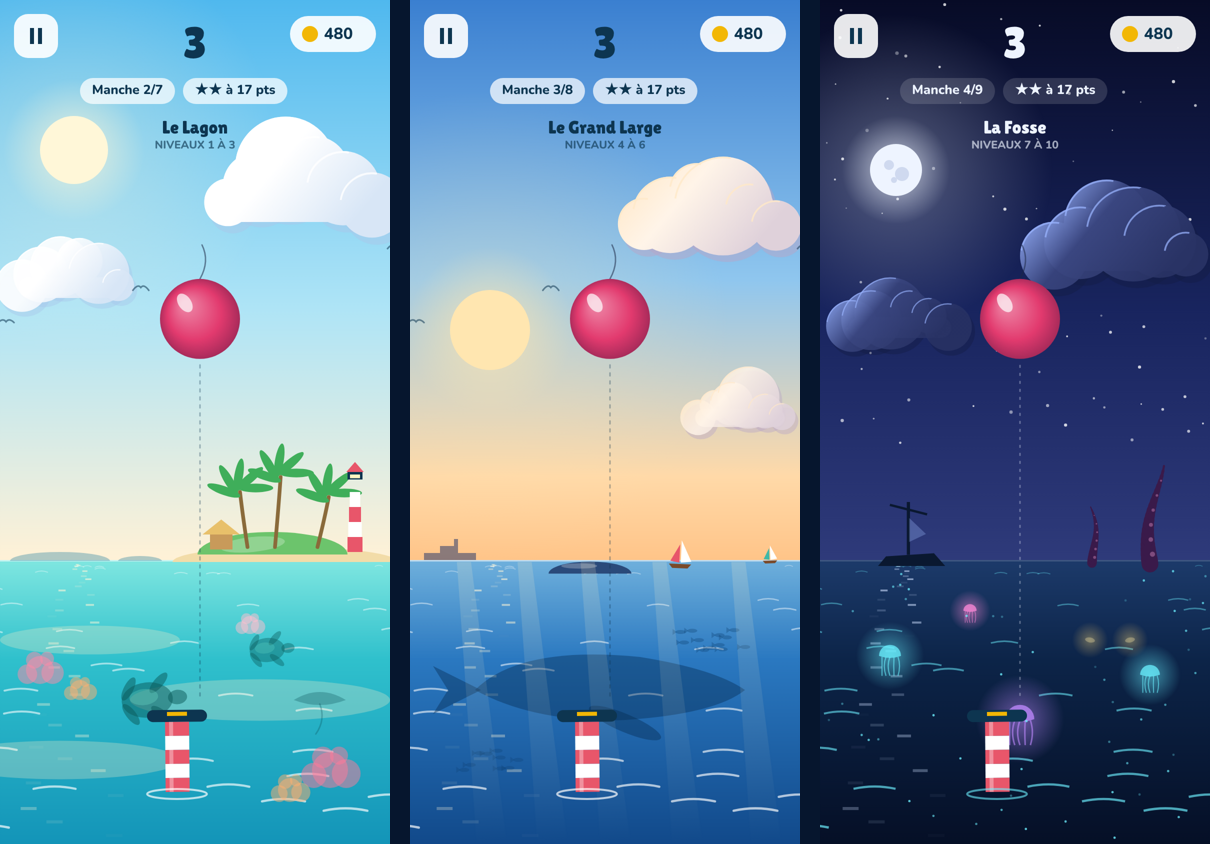
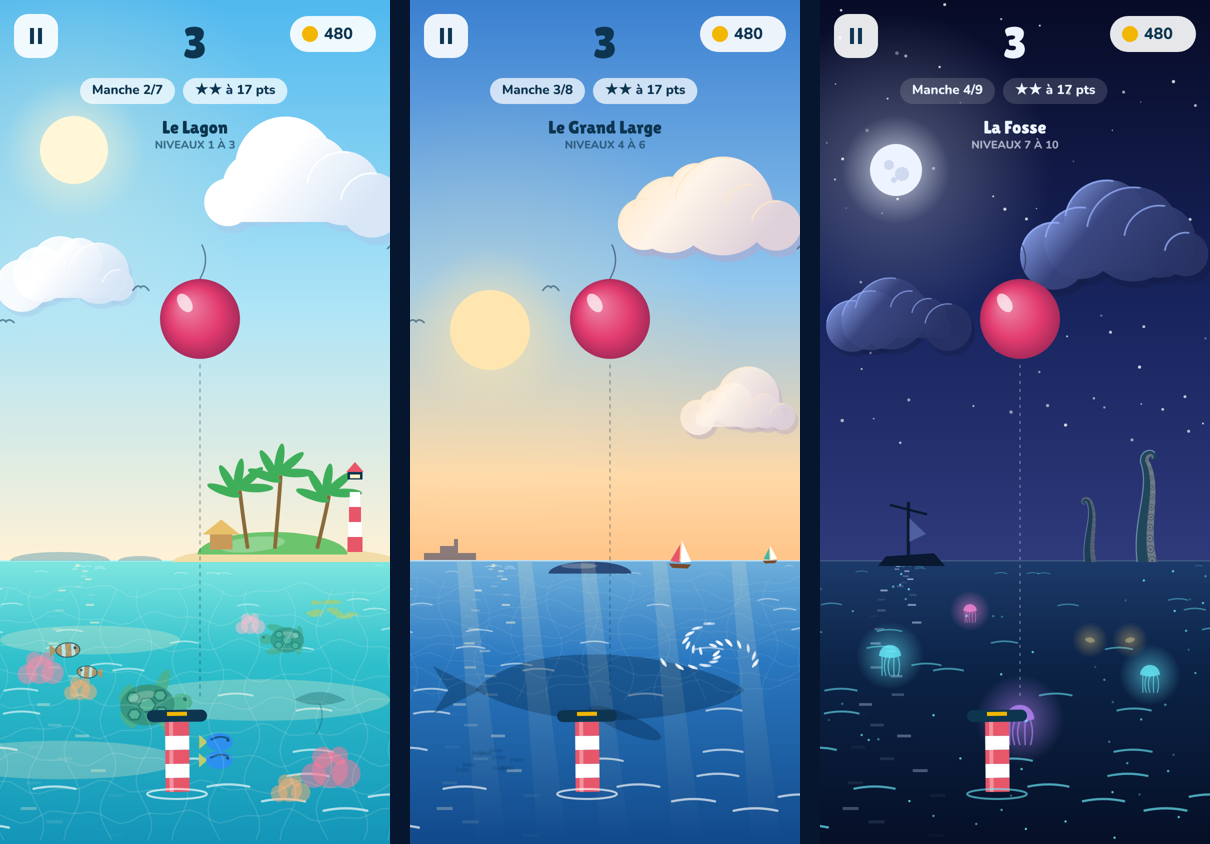
Monde 4 : tentacules aux couleurs du Kraken (attaques + horizon), petit poulpe de la défaite non retourné
Claude-Session: https://claude.ai/code/session_01NEC92qwxswvqqiEaD4C6hh

diff --git a/design/brouillons/2026-11-18-ocean-maquettes.html b/design/brouillons/2026-11-18-ocean-maquettes.html
@@ -167,7 +167,7 @@ function zone2(t) {
 function zone3(t) {
   sky(t); cumulus(300, 260, 1.1, 21, { a: .9 }); cumulus(80, 330, .8, 27, { a: .8 });
   sea(t);
-  wreck(90, HZ + 6, .8); tentacle(330, HZ + 4, .7, t); tentacle(272, HZ + 3, .4, t + 90);
+  wreck(90, HZ + 6, .8); c.save(); c.beginPath(); c.rect(0, 0, W, HZ + 2); c.clip(); kTent(330, HZ + 6, .75, t, { far: .55 }); kTent(272, HZ + 4, .45, t + 90, { far: .65, curl: -1 }); c.restore();
   under(() => { for (const [x, y, s, col] of [[70, 650, 1, '#6af0ff'], [200, 720, 1.3, '#c08aff'], [330, 680, .9, '#6af0ff'], [150, 610, .6, '#ff8ad8']]) jelly(x, y, s, t, col);
     // plancton lumineux
     for (let i = 0; i < 50; i++) { const x = h1(i * 3) * W, y = HZ + 10 + h1(i * 7) * (H - HZ - 10); c.fillStyle = `rgba(110,240,255,${(.2 + .6 * Math.abs(Math.sin(t * .04 + i))).toFixed(3)})`; c.beginPath(); c.arc(x, y, 1.2, 0, TAU); c.fill(); }
@@ -506,6 +506,12 @@ function kraken3(x, y, s, t, o = {}) {
   c.save(); c.translate(70, -28); c.rotate(.5); const sp = 1 + ch * .7; c.fillStyle = kmix(P.body, P.dark, .3); c.beginPath(); c.roundRect(-6 * sp, -5 * sp, 18 * sp, 10 * sp, 5 * sp); c.fill(); c.fillStyle = '#1a0818'; c.beginPath(); c.ellipse(12 * sp, 0, 2.5 * sp, 4 * sp, 0, 0, TAU); c.fill(); c.restore();
   c.restore(); }
 
+/* tentacule qui sort de l'eau, aux couleurs du boss (o.far = au loin, voilé par la nuit) */
+function kTent(x, y, s, t, o = {}) { const P = kPal(Object.assign({ v: KV || 'B' }, o));
+  if (o.far) for (const k2 of ['body', 'dark', 'light', 'under', 'suck', 'spot']) P[k2] = mix(P[k2], '#141c44', o.far);
+  const sw = Math.sin(t * .03 + x);
+  c.save(); c.translate(x, y); c.scale(s, s); kArm(kArmPts([[0, 10], [-12 + sw * 8, -50], [20 + sw * 10, -100], [-2 + sw * 6, -140]], o.curl || 1), 26, P, 1, false, t); c.restore(); }
+
 function bossScene(t) {
   if (BS === 9) { const T = t; krakenW(215, SEA - 40, .95, T, { charge: Math.max(0, Math.sin(T * .03)) * .5 }); return; }
   if (BS === 8) { krakenW(215, SEA - 40, .95, t, { rage: 1, charge: .3 }); return; }
@@ -514,9 +520,9 @@ function bossScene(t) {
   if (BS === 2) { const T = t % 200, warn = T < 70, slam = T >= 70 && T < 120;
     krakenW(K.x, K.y + Math.sin(t * .035) * 5, 1, t);
     const tx = 140; if (warn) { c.fillStyle = `rgba(255,255,255,${(.3 + .3 * (Math.floor(T / 6) % 2)).toFixed(3)})`; c.beginPath(); c.ellipse(tx, SEA - 2, 30, 7, 0, 0, TAU); c.fill(); for (let i = 0; i < 4; i++) { const q = ((T * .05 + i / 4) % 1); c.fillStyle = 'rgba(200,250,255,0.8)'; c.beginPath(); c.arc(tx + (i - 1.5) * 10, SEA - q * 20, 2 + q * 3, 0, TAU); c.fill(); } }
-    if (slam) { const q = T < 84 ? (T - 70) / 14 : T > 106 ? (120 - T) / 14 : 1; c.save(); c.beginPath(); c.rect(0, 0, W, SEA); c.clip(); tentacle(tx, SEA + 10, 1.9 * q, t); c.restore(); } }
+    if (slam) { const q = T < 84 ? (T - 70) / 14 : T > 106 ? (120 - T) / 14 : 1; c.save(); c.beginPath(); c.rect(0, 0, W, SEA); c.clip(); kTent(tx, SEA + 10, 1.9 * q, t); c.restore(); } }
   if (BS === 3) { krakenW(K.x, K.y + Math.sin(t * .06) * 7, 1.05, t, { rage: 1, charge: Math.max(0, Math.sin(t * .05)) });
-    c.save(); c.beginPath(); c.rect(0, 0, W, SEA); c.clip(); tentacle(60, SEA + 10, 1.3, t); tentacle(170, SEA + 10, 1.1, t + 70); c.restore(); }
+    c.save(); c.beginPath(); c.rect(0, 0, W, SEA); c.clip(); kTent(60, SEA + 10, 1.3, t, { rage: 1 }); kTent(170, SEA + 10, 1.1, t + 70, { rage: 1, curl: -1 }); c.restore(); }
   if (BS === 4) { const T = t % 240, q = T / 240;
     /* plonge dans un tourbillon (à droite), ressort à gauche en crachant de l'encre */
     if (q < .45) { const d = ease(q / .45); krakenW(K.x, K.y + d * 220, 1, t, { rage: .4 });
@@ -534,7 +540,7 @@ function bossScene(t) {
     } else { /* il s'enfuit à petits bonds en lâchant de l'encre */
       const u = (T - 120) / 200, x = K.x - u * 430, hop = Math.abs(Math.sin(u * 22)), y = K.y + 12 - hop * 26;
       for (let i = 1; i <= 4; i++) { const back = u - i * .07; if (back <= 0) continue; inkCloud(K.x - back * 430 + 30, K.y + 4, Math.min(.99, .15 + i * .2), .55); }
-      krakenW(x, y, .42, t * 2, { sad: 1, flip: true });
+      krakenW(x, y, .42, t * 2, { sad: 1 });
       ftxt('Pfff…', K.x - 40, K.y - 80, u * 1.6, '#d8f0e8', 28); }
     ftxt('Boss vaincu !', W / 2, 400, (T - 120) / 190, '#ffd23f', 36); }
 }
